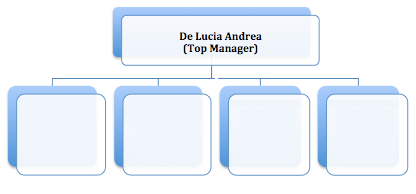
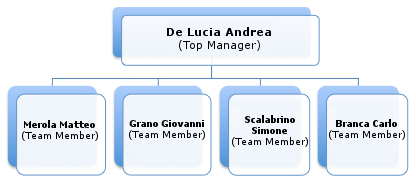
Update Project Organization

diff --git a/SPMP/ProjectOrganization.tex b/SPMP/ProjectOrganization.tex
@@ -11,24 +11,21 @@
 		\caption{Struttura organizzativa}\label{fig:1}
 		\end{figure}
 		
-		
-		\section{Ruoli e responsabilità}
-		La tabella 3 riporta i componenti del team, i ruoli ad essi assegnati e le responsabilità all'interno del progetto
-		
-		\begin{table}[H]
-			\begin{longtable}{|p{4cm}|p{4cm}|p{7cm}|}
+		\begin{table}[b]
+			\begin{tabular}{|c|c|c|}
 				\hline
-				Nome componente & Ruolo & Responsabilità\\
+				\textbf{Nome componente} & \textbf{Ruolo} & \textbf{Responsabilità}\\
 				\hline
-				Matteo Merola & Project Manager & Responsabile unico della valutazione, pianificazione, realizzazione e controllo del progetto.\\[50pt]
+				Matteo Merola & Project Manager & \shortstack{Responsabile unico della valutazione, \\pianificazione, realizzazione \\e controllo del progetto.}\\
 				\hline
-				Simone Scalabrino & Team member & Sviluppo deliverables: DL1 - DL3 etc\\[50pt]
+				Simone Scalabrino & Team member &  \shortstack{Sviluppo deliverables:\\DL1, DL2, DL3}\\
 				\hline
-				Giovanni Grano & Team member & Sviluppo deliverables: DL1 - DL3 etc\\[50pt]
+				Giovanni Grano & Team member & \shortstack{Sviluppo deliverables:\\DL1, DL2, DL3}\\
 				\hline
-				Carlo Branca & Team member & Sviluppo deliverables: DL1 - DL3 etc \\[50pt]
+				Carlo Branca & Team member & \shortstack{Sviluppo deliverables:\\DL1, DL2, DL3}\\
 				\hline
-			\end{longtable}
-		\caption{Ruoli e responsabilità}\label{tab:3}
+			\end{tabular}
+		\caption{Ruoli e responsabilità}
+		\label{proj_org:ruoli}
 		\end {table}
 		
